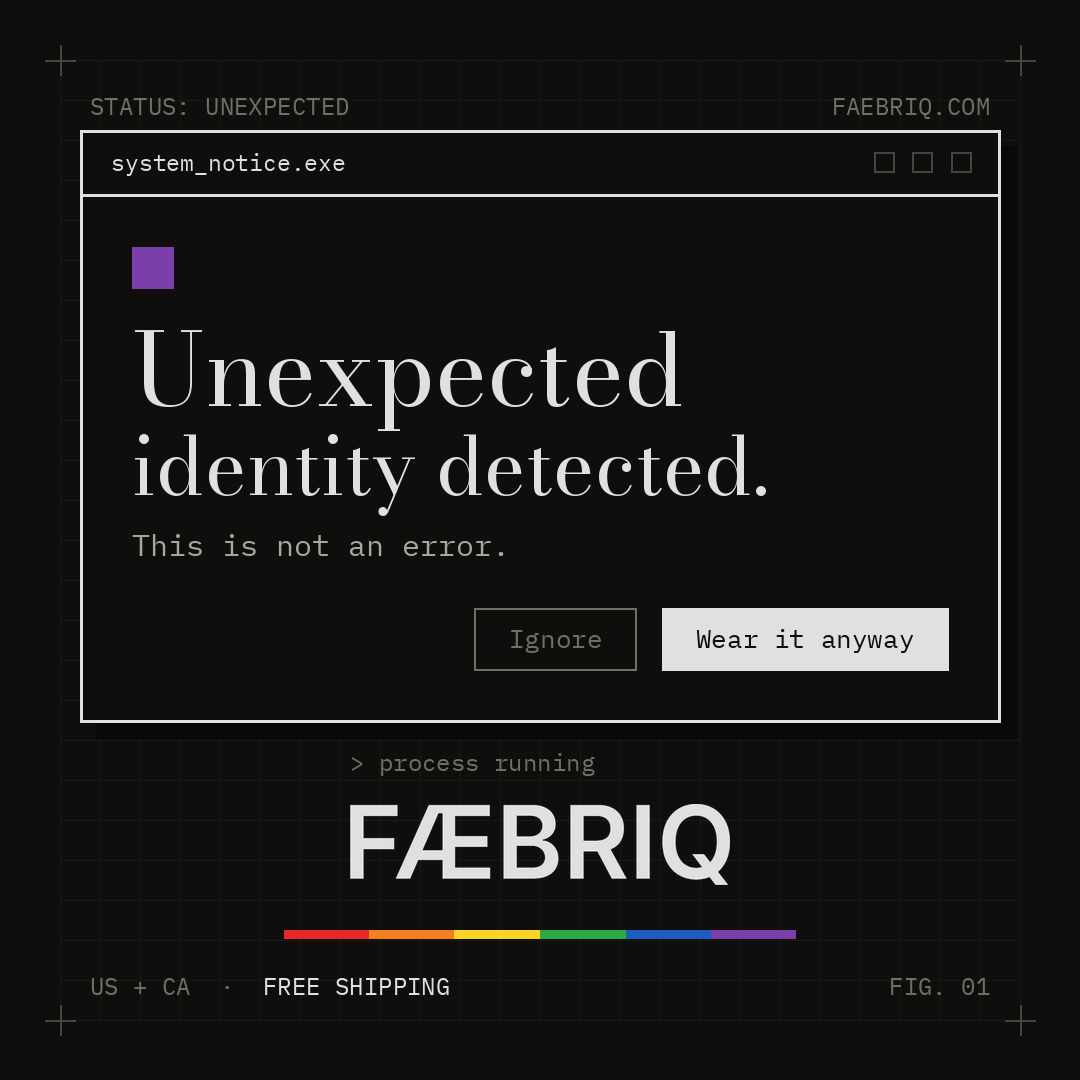
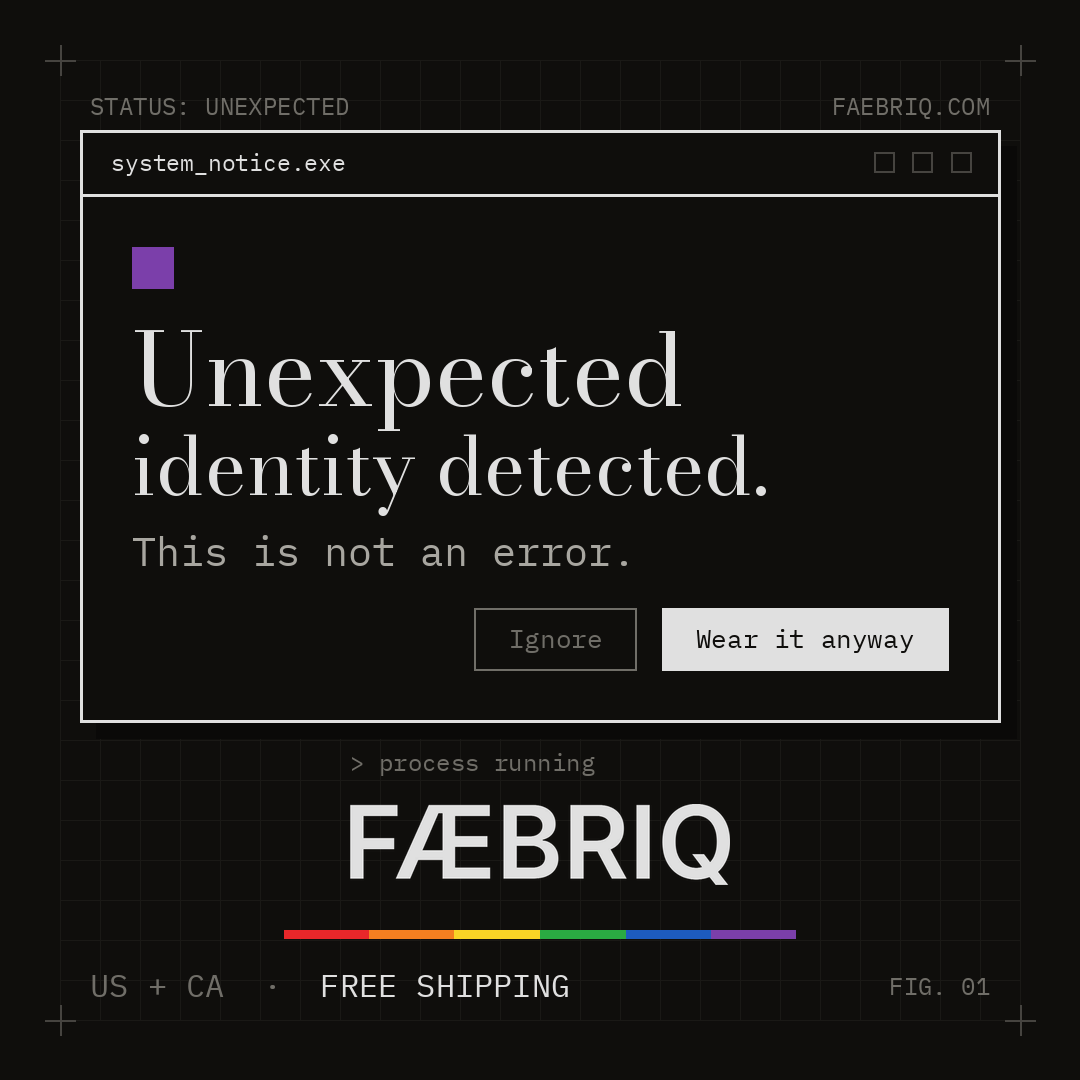
Social set critique fixes: larger shipping and swipe text, bigger taglines, slide 04 button CTA
Claude-Session: https://claude.ai/code/session_01DKdkXjMN51BwsHku4W6Q4t

diff --git a/assets/campaign/awareness-2026-10/social.py b/assets/campaign/awareness-2026-10/social.py
@@ -39,9 +39,9 @@ def square():
     f = mono(24); L = M + 30; R = W - M - 30
     runs(d, L, 90, [('STATUS: UNEXPECTED', NOTE)], f)
     runs(d, 0, 90, [('FAEBRIQ.COM', NOTE)], f, right=R)
-    dialog(d, (M + 20, 130, W - M - 20, 722), 100, 26, square_left=False)
+    dialog(d, (M + 20, 130, W - M - 20, 722), 100, 26, square_left=False, tag=0.40)
     lockup(im, d, W / 2, 930, 380, 24, center=True)
-    runs(d, L, H - M - 50, [('US + CA  ·  ', NOTE), ('FREE SHIPPING', FG)], f)
+    runs(d, L, H - M - 56, [('US + CA  ·  ', NOTE), ('FREE SHIPPING', FG)], mono(32))
     runs(d, 0, H - M - 50, [('FIG. 01', NOTE)], f, right=R)
     return im
 
@@ -58,9 +58,9 @@ def slide(n, total):
 def s01():
     """Hook: the dialog, with a swipe cue."""
     im, d, W, H, M, L, R = slide(1, 4)
-    dialog(d, (M + 20, 190, W - M - 20, 930), 118, 28, square_left=False)
+    dialog(d, (M + 20, 190, W - M - 20, 930), 118, 28, square_left=False, tag=0.373)
     lockup(im, d, W / 2, 1200, 400, 24, center=True)
-    runs(d, 0, H - M - 50, [('SWIPE  >', FG)], mono(24), right=R)
+    runs(d, 0, H - M - 56, [('SWIPE  >', FG)], mono(32), right=R)
     return im
 
 
@@ -80,13 +80,14 @@ def s03():
 def s04():
     """CTA: wordmark, the one button, shipping."""
     im, d, W, H, M, L, R = slide(4, 4)
-    lockup(im, d, W / 2, 640, 560, 26, center=True)
-    d.text((W / 2 - d.textlength('Wear it anyway.', font=bod(84)) / 2, 780), 'Wear it anyway.', font=bod(84), fill=FG)
+    lockup(im, d, W / 2, 700, 560, 26, center=True)
+    c = 40; bw = d.textlength('Wear it anyway', font=mono(c)) + c * 2.6
+    button(d, W / 2 - bw / 2, 830, 'Wear it anyway', c)
     f = mono(36); t = 'faebriq.com'
-    d.text((W / 2 - d.textlength(t, font=f) / 2, 930), t, font=f, fill=TAG)
-    f2 = mono(24); parts = [('US + CA  ·  ', NOTE), ('FREE SHIPPING', FG)]
+    d.text((W / 2 - d.textlength(t, font=f) / 2, 990), t, font=f, fill=TAG)
+    f2 = mono(32); parts = [('US + CA  ·  ', NOTE), ('FREE SHIPPING', FG)]
     x = W / 2 - sum(d.textlength(p, font=f2) for p, _ in parts) / 2
-    runs(d, x, 1000, parts, f2)
+    runs(d, x, 1070, parts, f2)
     return im
 
 

diff --git a/assets/campaign/awareness-2026-10/render.py b/assets/campaign/awareness-2026-10/render.py
@@ -45,7 +45,7 @@ def runs(d, x, y, parts, font, right=None):
         d.text((x, y), t, font=font, fill=c); x += d.textlength(t, font=font)
 
 
-def dialog(d, box, L1, chrome, square_left=True):
+def dialog(d, box, L1, chrome, square_left=True, tag=0.305):
     """system_notice.exe window with the phrase lockup, tagline and two buttons."""
     x0, y0, x1, y1 = box
     off = round(chrome * 0.6)
@@ -70,7 +70,7 @@ def dialog(d, box, L1, chrome, square_left=True):
     # phrase lockup: line 2 at 80% of line 1
     d.text((tx, ty), 'Unexpected', font=bod(L1), fill=FG)
     d.text((tx, ty + L1 * 1.12), 'identity detected.', font=bod(round(L1 * 0.8)), fill=FG)
-    d.text((tx, ty + L1 * 1.12 + L1 * 0.8 * 1.5), 'This is not an error.', font=mono(round(L1 * 0.305)), fill=TAG)
+    d.text((tx, ty + L1 * 1.12 + L1 * 0.8 * 1.5), 'This is not an error.', font=mono(round(L1 * tag)), fill=TAG)
     # buttons, right-aligned
     fb = mono(round(chrome * 1.0)); bh = round(chrome * 2.4); by = y1 - pad - bh
     xr = x1 - pad

diff --git a/CHANGELOG.md b/CHANGELOG.md
@@ -160,3 +160,4 @@ Why: first voice pass came out kids-cartoon, and AI video tests showed wordmark 
 - render.py now uses repo font cache and the approved wordmark mask so it re-renders in any session.
 2026/10/03 Added social.py: square post and carousel (01 hook, 03 message, 04 CTA) for Error State.
 Slide 02 (product) held until Manus mockups land.
+2026/10/04 Social critique fixes: larger shipping/swipe/tagline text, slide 04 CTA now a button; render.py dialog() gained a tag-size option (hero unchanged).
